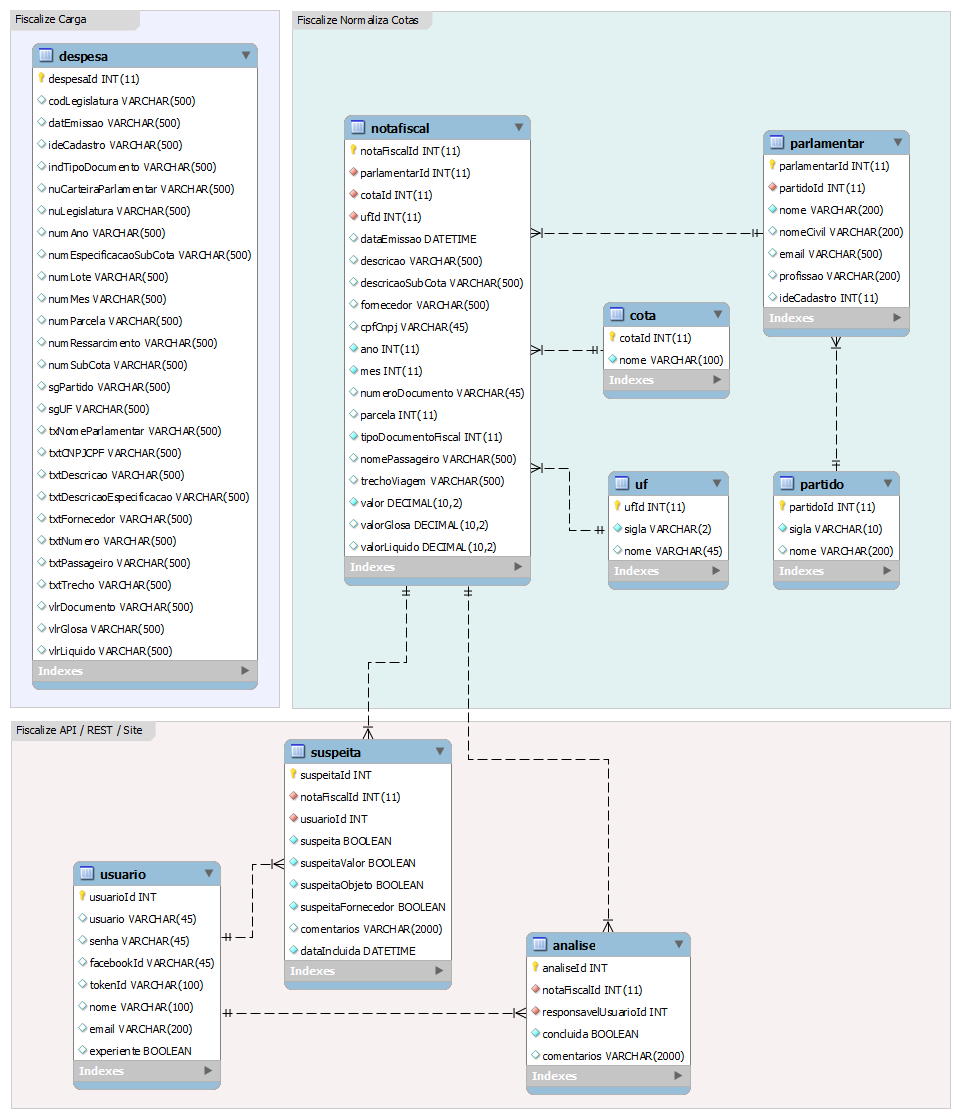
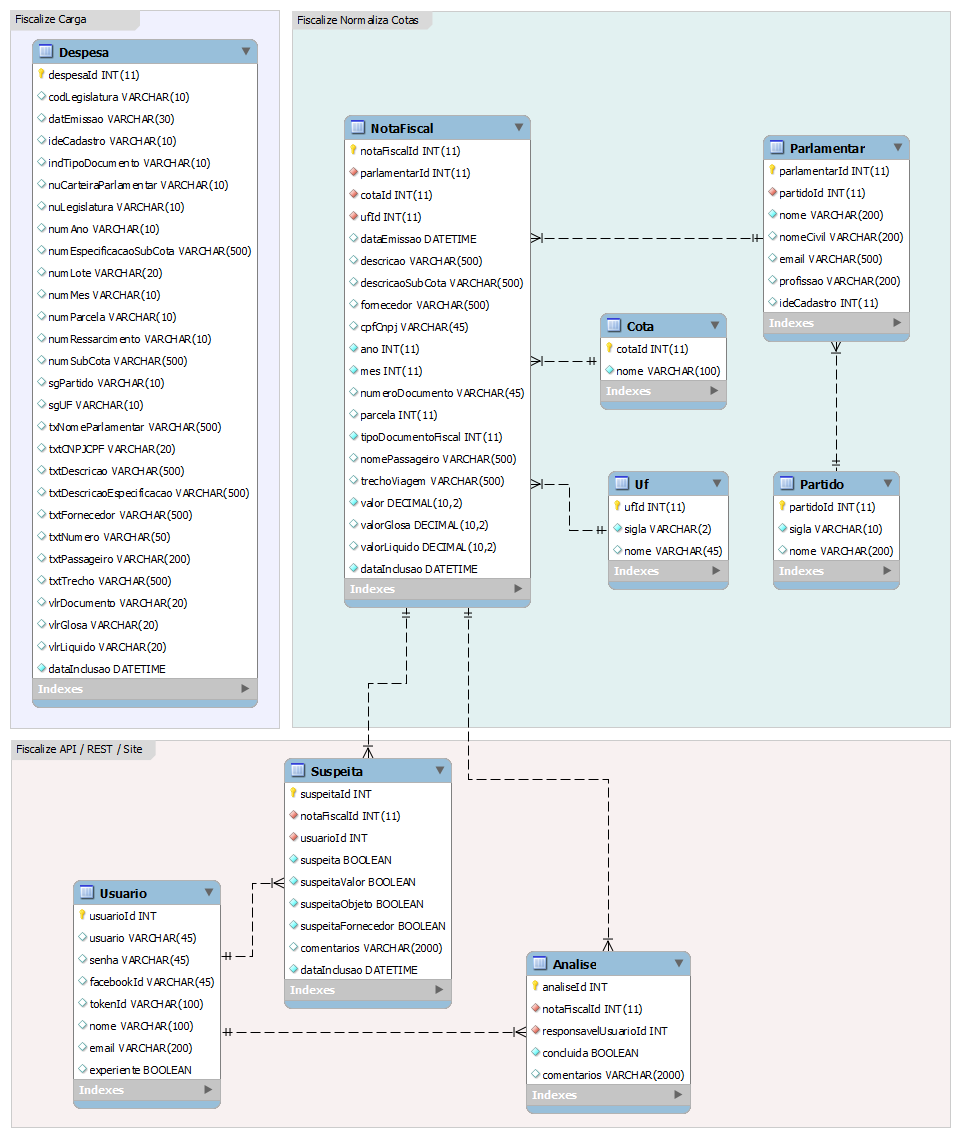
Data de inclusão da Despesa e NotaFiscal

diff --git a/fiscalize-java-base/src/main/java/br/net/ops/fiscalize/domain/Despesa.java b/fiscalize-java-base/src/main/java/br/net/ops/fiscalize/domain/Despesa.java
@@ -4,17 +4,21 @@ import java.lang.reflect.Field;
 import java.lang.reflect.InvocationTargetException;
 import java.util.ArrayList;
 import java.util.Collections;
+import java.util.Date;
 
 import javax.persistence.Entity;
 import javax.persistence.GeneratedValue;
 import javax.persistence.GenerationType;
 import javax.persistence.Id;
 import javax.persistence.Table;
+import javax.persistence.Temporal;
+import javax.persistence.TemporalType;
 import javax.persistence.UniqueConstraint;
 
 import org.apache.commons.beanutils.BeanUtils;
 import org.hibernate.annotations.NamedQueries;
 import org.hibernate.annotations.NamedQuery;
+import org.springframework.format.annotation.DateTimeFormat;
 
 import br.net.ops.fiscalize.exception.DespesaReflectionException;
 
@@ -64,6 +68,9 @@ public class Despesa {
 	public String numLote;
 	public String numRessarcimento;
 	
+	@Temporal(TemporalType.TIMESTAMP)
+	public Date dataInclusao;
+	
 	public String retornarCreateSQL() throws DespesaReflectionException {
 		ArrayList<String> listaCampos = retornarCampos();
 		
@@ -73,7 +80,7 @@ public class Despesa {
 		}
 		
 		String campos = sb.toString();
-		if(campos.length()>2) campos = campos.substring(0, campos.length()-2); // retirando �ltima v�rgula e espa�o 
+		if(campos.length()>2) campos = campos.substring(0, campos.length()-2); // retirando  ultima  virgula e espaco 
 		
 		return "CREATE TABLE " + TABELA_DESPESA + " (despesaId INT PRIMARY KEY, " + campos + ");";
 	}
@@ -291,6 +298,12 @@ public class Despesa {
 	}
 	public void setNumRessarcimento(String numRessarcimento) {
 		this.numRessarcimento = numRessarcimento;
+	}
+	public Date getDataInclusao() {
+		return dataInclusao;
+	}
+	public void setDataInclusao(Date dataInclusao) {
+		this.dataInclusao = dataInclusao;
 	}
 	
 }

diff --git a/fiscalize-java-normaliza/src/main/java/br/net/ops/fiscalize/business/NormalizaCotasParlamentares.java b/fiscalize-java-normaliza/src/main/java/br/net/ops/fiscalize/business/NormalizaCotasParlamentares.java
@@ -1,6 +1,7 @@
 package br.net.ops.fiscalize.business;
 
 import java.util.ArrayList;
+import java.util.Date;
 import java.util.List;
 import java.util.logging.Level;
 import java.util.logging.Logger;
@@ -147,6 +148,7 @@ public class NormalizaCotasParlamentares {
 			try {
 				List<NotaFiscal> notasExistentes = notaFiscalDao.findByExample(notaFiscal);
 				if(notasExistentes.size()==0) {
+					notaFiscal.setDataInclusao(new Date(System.currentTimeMillis()));
 					notaFiscalDao.save(notaFiscal);
 					validos++;
 					ultimoLog = imprimirLog(ultimoLog, "Salvando em Banco Nota Fiscal: " + iteracao);

diff --git a/fiscalize-java-base/src/main/java/br/net/ops/fiscalize/domain/NotaFiscal.java b/fiscalize-java-base/src/main/java/br/net/ops/fiscalize/domain/NotaFiscal.java
@@ -61,6 +61,9 @@ public class NotaFiscal {
 	@Column(length = 10, precision = 2)
 	private BigDecimal valorLiquido;
 	
+	@Temporal(TemporalType.TIMESTAMP)
+	public Date dataInclusao;
+	
 	@ManyToOne
 	@JoinColumn(name="parlamentarId")
 	private Parlamentar parlamentar;
@@ -308,6 +311,14 @@ public class NotaFiscal {
 
 	public void setDataEmissao(Date dataEmissao) {
 		this.dataEmissao = dataEmissao;
+	}
+
+	public Date getDataInclusao() {
+		return dataInclusao;
+	}
+
+	public void setDataInclusao(Date dataInclusao) {
+		this.dataInclusao = dataInclusao;
 	}
 
 }

diff --git a/fiscalize-java-carga/src/main/java/br/net/ops/fiscalize/business/DatabaseCotasParlamentares.java b/fiscalize-java-carga/src/main/java/br/net/ops/fiscalize/business/DatabaseCotasParlamentares.java
@@ -1,5 +1,6 @@
 package br.net.ops.fiscalize.business;
 
+import java.util.Date;
 import java.util.List;
 import java.util.logging.Level;
 import java.util.logging.Logger;
@@ -42,6 +43,7 @@ public class DatabaseCotasParlamentares {
 			try {
 				List<Despesa> despesasExistentes = despesaDao.findByExample(despesa);
 				if(despesasExistentes.size()==0) {
+					despesa.setDataInclusao(new Date(System.currentTimeMillis()));
 					despesaDao.save(despesa);	
 				} else {
 					logger.log(Level.WARNING, "Despesa " + iteracao + " já existe, ignorada!");
